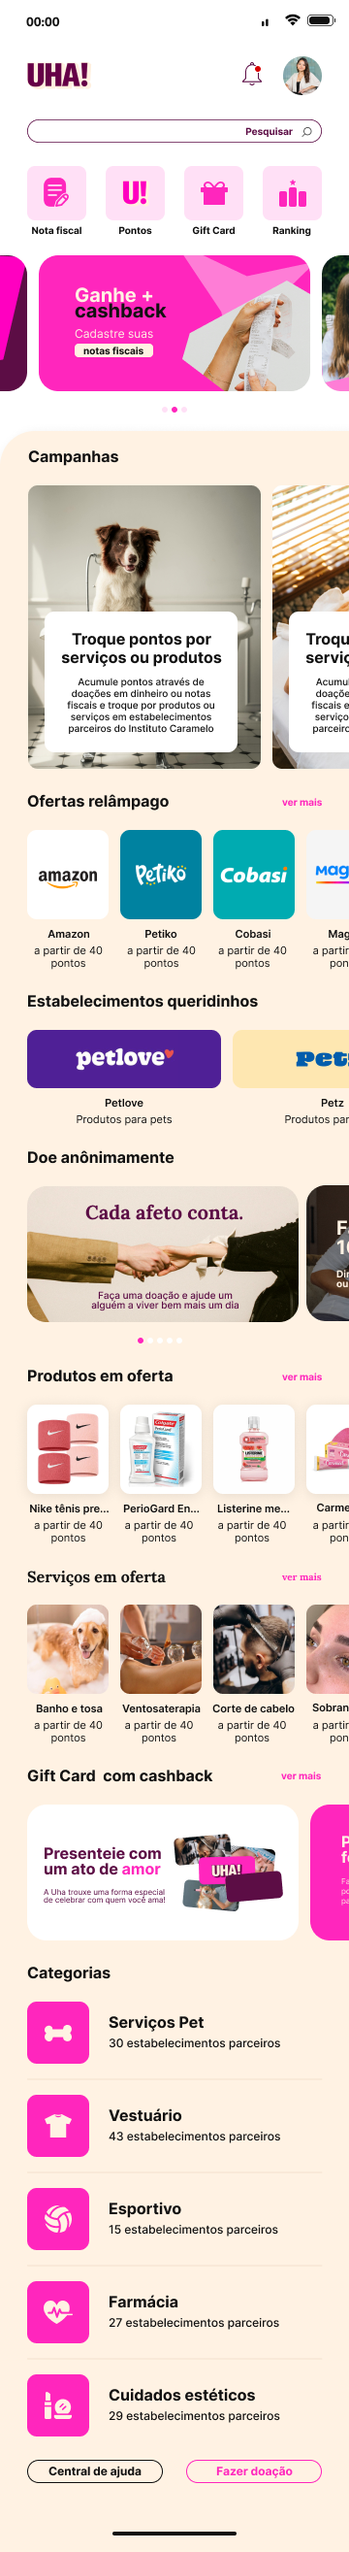
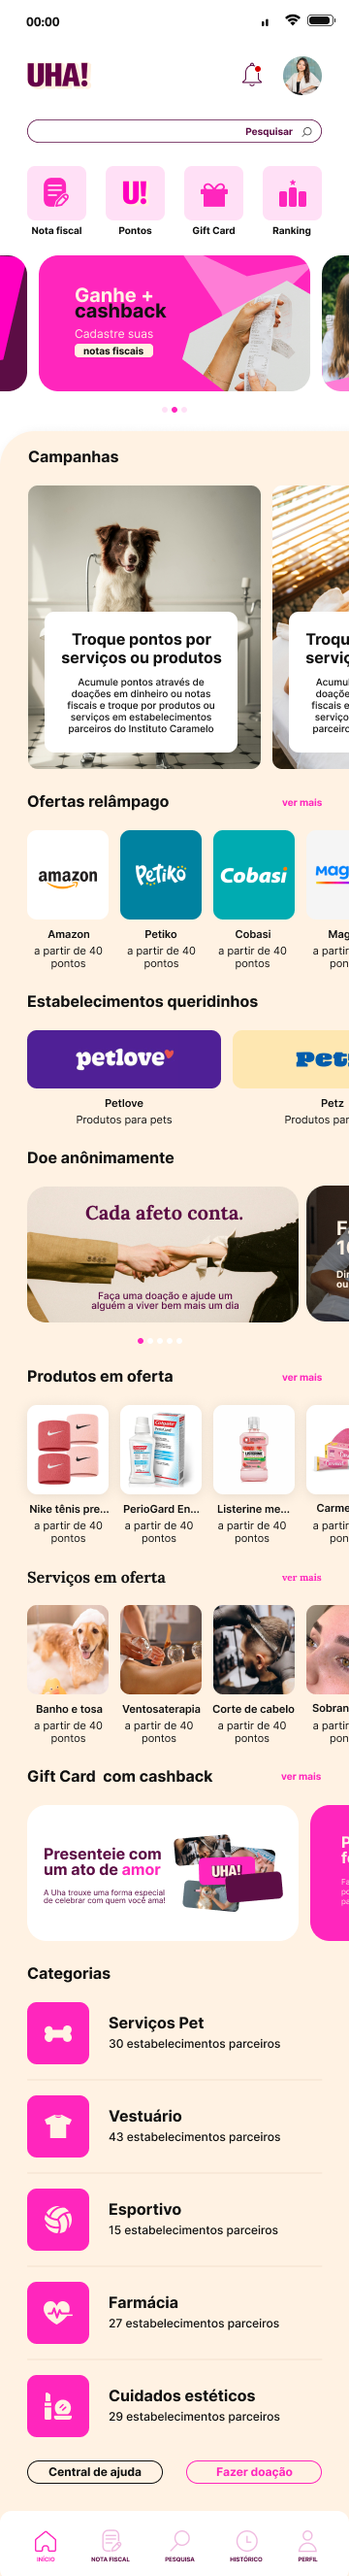
add new assets

diff --git a/src/screens/campaigns/uhacoins.js b/src/screens/campaigns/uhacoins.js
@@ -9,7 +9,7 @@ import Avatar from '@components/avatar';
 import Notify from '@components/notify';
 
 
-export default function HomeScreen({navigation, }){
+export default function UhaCoinsScreen({navigation, }){
     const { color, font, margin, } = useContext(ThemeContext);
 
     const campanhas = [
@@ -50,7 +50,6 @@ export default function HomeScreen({navigation, }){
             color: '#',
         },
     ]
-
     const estabelecimentos = [
         {
             id: 1,
@@ -66,6 +65,7 @@ export default function HomeScreen({navigation, }){
         }
     ]
 
+
     return (
         <Main style={{ backgroundColor: "#fff" }}>
             <Scroll>
@@ -78,6 +78,7 @@ export default function HomeScreen({navigation, }){
                         <Avatar />
                     </Row>
                 </Row>
+
                 <Button style={{ borderRadius: 30,  opacity: .7, borderWidth: 2, marginVertical: 24, borderColor: "#30303030", backgroundColor: "#12121220", paddingVertical: 12, paddingHorizontal: 8, marginHorizontal: margin.h, }}>
                     <Row style={{ justifyContent: 'space-between', alignItems: 'center', paddingHorizontal: 18,  }}>
                         <Title style={{ fontSize: 20, fontFamily: font.medium, }}>Pesquisar</Title>
@@ -86,37 +87,33 @@ export default function HomeScreen({navigation, }){
                 </Button>
                 
                 <Row style={{ justifyContent: 'space-between', alignItems: 'center', marginHorizontal: margin.h, marginBottom: 24, }}>
-                    
                     <Column style={{ justifyContent: 'center', alignItems: 'center',  }}>
-                        <Button onPress={() => {navigation.navigate('Notafiscal')}}  rippleColor={color.secundary} style={{ backgroundColor:  color.primary+20, padding: 18, borderRadius: 12, }}>
-                            <MotiImage source={require('@icons/nota.png')} resizeMode='contain' style={{ width: 34, height: 34, }} />
+                        <Button onPress={() => {navigation.navigate('Redeem')}}  rippleColor={color.secundary} style={{ backgroundColor:  color.primary+20, padding: 18, borderRadius: 12, }}>
+                            <MotiImage source={require('@imgs/nota.png')} resizeMode='contain' style={{ width: 34, height: 34, }} />
+                        </Button>
+                        <Label style={{ marginTop: 4, fontFamily: font.medium, fontSize: 14, color: color.title, textAlign: 'center' }}>Nota fisl</Label>
+                    </Column>
+                    <Column style={{ justifyContent: 'center', alignItems: 'center',  }}>
+                        <Button onPress={() => {navigation.navigate('Notafiscal')}}  rippleColor={color.secundary} style={{ backgroundColor: color.primary+20, padding: 18, borderRadius: 12, }}>
+                            <MotiImage source={require('@imgs/nota.png')} resizeMode='contain' style={{ width: 34, height: 34, }} />
                         </Button>
                         <Label style={{ marginTop: 4, fontFamily: font.medium, fontSize: 14, color: color.title, textAlign: 'center' }}>Nota fiscal</Label>
                     </Column>
-                    
                     <Column style={{ justifyContent: 'center', alignItems: 'center',  }}>
-                        <Button onPress={() => {navigation.navigate('Notafiscal')}}  rippleColor={color.secundary} style={{ backgroundColor: color.primary+20, padding: 18, borderRadius: 12, }}>
-                            <MotiImage source={require('@icons/pontos.png')} resizeMode='contain' style={{ width: 34, height: 34, }} />
+                        <Button onPress={() => {navigation.navigate('BuyService')}} rippleColor={color.secundary} style={{ backgroundColor: color.primary+20, padding: 18, borderRadius: 12, }}>
+                            <MotiImage source={require('@imgs/patinhas.png')} resizeMode='contain' style={{ width: 34, height: 34, }} />
                         </Button>
-                        <Label style={{ marginTop: 4, fontFamily: font.medium, fontSize: 14, color: color.title, textAlign: 'center' }}>Pontos</Label>
+                        <Label style={{ marginTop: 4, fontFamily: font.medium, fontSize: 14, color: color.title, textAlign: 'center' }}>Patinhas</Label>
                     </Column>
-                    
                     <Column style={{ justifyContent: 'center', alignItems: 'center',  }}>
-                        <Button onPress={() => {navigation.navigate('CampaignsGiftCard')}} rippleColor={color.secundary} style={{ backgroundColor: color.primary+20, padding: 18, borderRadius: 12, }}>
-                            <MotiImage source={require('@icons/gift.png')} resizeMode='contain' style={{ width: 34, height: 34, }} />
+                        <Button onPress={() => {navigation.navigate('BuyServiceGiftCard')}}  rippleColor={color.secundary} style={{ backgroundColor: color.primary+20, padding: 18, borderRadius: 12, }}>
+                            <MotiImage source={require('@imgs/gift.png')} resizeMode='contain' style={{ width: 34, height: 34, }} />
                         </Button>
                         <Label style={{ marginTop: 4, fontFamily: font.medium, fontSize: 14, color: color.title, textAlign: 'center' }}>Gift Card</Label>
                     </Column>
-
-                    <Column style={{ justifyContent: 'center', alignItems: 'center',  }}>
-                        <Button onPress={() => {navigation.navigate('BuyServiceGiftCard')}}  rippleColor={color.secundary} style={{ backgroundColor: color.primary+20, padding: 18, borderRadius: 12, }}>
-                            <MotiImage source={require('@icons/rank.png')} resizeMode='contain' style={{ width: 34, height: 34, }} />
-                        </Button>
-                        <Label style={{ marginTop: 4, fontFamily: font.medium, fontSize: 14, color: color.title, textAlign: 'center' }}>Ranking</Label>
-                    </Column>
                 </Row>
 
-                <Carrousel color={color} type="home"/>
+                <Carrousel color={color}/>
 
                 <Column style={{ paddingHorizontal: margin.h, backgroundColor: color.background, paddingVertical: 20, borderTopLeftRadius: 32,  }}>
                     <Title style={{ marginTop: 8, }}>Campanhas</Title>
@@ -190,13 +187,12 @@ export default function HomeScreen({navigation, }){
                                 </Column>
                             </Button>
                         )}
-                        keyExtractor={item => item.id}
-                    />
+                        keyExtractor={item => item.id} />
                             
 
                 <Column style={{ backgroundColor: color.background, paddingTop: 20, }}>
                     <Title style={{ paddingHorizontal: margin.h, paddingVertical: 12, }}>Doe anônimamente</Title>
-                    <Carrousel type="doe"/>
+                    <Carrousel />
                 </Column>
                 <Column style={{ backgroundColor: color.background, marginTop: -30,  }}>
                     <Title style={{ paddingHorizontal: margin.h, paddingVertical: 12, }}>Produtos em oferta</Title>
@@ -241,7 +237,7 @@ export default function HomeScreen({navigation, }){
                 
                 <Column style={{ backgroundColor: color.background, paddingTop: 20, }}>
                     <Title style={{ paddingHorizontal: margin.h, paddingVertical: 12, }}>Gift Card com cashback</Title>
-                    <Carrousel type="gift"/>
+                    <Carrousel />
                 </Column>
                 <Column style={{ paddingHorizontal: margin.h, backgroundColor: color.background, marginTop: -20,  }}>
                     <Title>Categorias</Title>
@@ -266,7 +262,6 @@ export default function HomeScreen({navigation, }){
                         )}
                     />
                 </Column>
-
                 
                 <Row style={{ justifyContent: 'space-between', alignItems: 'center', paddingHorizontal: margin.h, backgroundColor: color.background, paddingBottom: 100,}}>
                         <Button style={{ borderWidth: 2, borderColor: '#111', paddingHorizontal: 20, paddingVertical: 12, borderRadius: 100, }}>
@@ -317,7 +312,7 @@ const categories = [
 ]
 
 
-const Carrousel = ({ type }) => {
+const Carrousel = (  ) => {
     const flat = useRef();
     const scrollX = useRef(new Animated.Value(0)).current;
 
@@ -329,45 +324,26 @@ const Carrousel = ({ type }) => {
             </Button>
         )
     }
-
-
-    const data = type == 'gift' ? gift : type == 'doe' ? doe : type == 'home' ? home : home
-
-    const home = [
-        {id: 1, title: '1', img: require('@imgs/carrousel1.png')},
-        {id: 2, title: '2', img: require('@imgs/carrousel2.png') },
-        {id: 3, title: '3', img: require('@imgs/carrousel3.png') },
-    ]
-    const gift = [
-        {id: 1, title: '1', img: require('@imgs/gift1.png')},
-        {id: 2, title: '2', img: require('@imgs/gift2.png') },
-        {id: 3, title: '2', img: require('@imgs/gift2.png') },
-    ]
-    const doe = [
-        {id: 1, title: '1', img: require('@imgs/doe1.png')},
-        {id: 2, title: '2', img: require('@imgs/doe2.png') },
-        {id: 3, title: '2', img: require('@imgs/doe2.png') },
+    const data = [
+        {id: 1, title: '1', img: require('@imgs/scroll1.png')},
+        {id: 2, title: '2', img: require('@imgs/scroll2.png') },
+        {id: 3, title: '3', img: require('@imgs/scroll3.png') },
     ]
 
     const [scrollPosition, setScrollPosition] = useState(0);
-    
-   /*  useEffect(() => {
+    useEffect(() => {
         const scrollInterval = setInterval(() => {
           setScrollPosition((prevPosition) => {
-            const newPosition = (prevPosition + 320) % (320 * data?.length);
+            const newPosition = (prevPosition + 320) % (320 * data.length);
             flat.current?.scrollToOffset({ offset: newPosition, animated: true });
             return newPosition;
           });
         }, 4000);
     
         return () => clearInterval(scrollInterval);
-      }, [data?.length]);
-*/
-
-
+      }, [data.length]);
 
     return(
-
         <Column>
         
     <FlatList 
@@ -380,7 +356,7 @@ const Carrousel = ({ type }) => {
         ref={flat}
         decelerationRate={'fast'}
         scrollEventThrottle={16}
-        data={ type == 'gift' ? gift : type == 'doe' ? doe : type == 'home' ? home : home}
+        data={data}
         renderItem={render}
         keyExtractor={item => item.id}
         horizontal
@@ -388,7 +364,7 @@ const Carrousel = ({ type }) => {
         ListFooterComponent={<View style={{ width: 34 }} />}
         style={{ paddingHorizontal: 24, marginBottom: 56,}}
         snapToAlignment='center'
-        snapToOffsets={[0, 300, 640]}
+        snapToOffsets={[320, 640]}
         
         />
       

diff --git a/src/screens/notafiscal/index.js b/src/screens/notafiscal/index.js
@@ -22,10 +22,10 @@ export default function NotafiscalScreen({navigation, }){
                     <Title style={{ fontSize: 20, marginTop: -20, }}>Como cadastrar</Title>
                     <Label style={{ marginVertical: 8, }}>Selecione a página de cadastro de nota fiscal, abra sua câmera e aponte para o QR Code em sua nota fiscal, simples, rápido e prático.</Label>
 
-                    <Button style={{ borderRadius: 8, marginTop: 24, backgroundColor: color.primary, paddingVertical: 16, paddingHorizontal: 20, marginVertical: 6,  }}>
+                    <Button onPress={() => {navigation.navigate('NotafiscalSend')}} style={{ borderRadius: 8, marginTop: 24, backgroundColor: color.primary, paddingVertical: 16, paddingHorizontal: 20, marginVertical: 6,  }}>
                         <Label style={{ fontFamily: font.bold, color: "#fff", textAlign: 'center', }}>Cadastrar nota fiscal</Label>
                     </Button>
-                    <Button style={{ borderRadius: 8, borderColor: color.secundary, borderWidth: 2, marginBottom: 32, paddingVertical: 16, paddingHorizontal: 20, marginVertical: 6,  }}>
+                    <Button onPress={() => {navigation.navigate('CampaignsProgress')}}  style={{ borderRadius: 8, borderColor: color.secundary, borderWidth: 2, marginBottom: 32, paddingVertical: 16, paddingHorizontal: 20, marginVertical: 6,  }}>
                         <Label style={{ fontFamily: font.bold, color: color.secundary, textAlign: 'center', }}>Minhas notas</Label>
                     </Button>
 

diff --git a/src/screens/campaigns/gift_card.js b/src/screens/campaigns/gift_card.js
@@ -9,7 +9,6 @@ export default function CampaignsGiftCardScreen({ navigation, }) {
     return (
         <Main>
             <Scroll>
-               
                <Header title='Gift Card'/>
                 <Column style={{ paddingHorizontal: 28, }}>
                     <MotiImage style={{ flexGrow: 1, borderRadius: 24, backgroundColor: '#303030', height: 280, marginVertical: 24, }} from={{opacity: 0, translateY: -20,}} animate={{opacity: 1, translateY: 0,}}/>
@@ -36,11 +35,9 @@ export default function CampaignsGiftCardScreen({ navigation, }) {
                     <Title style={{ marginTop: 32, marginBottom: 8, }}>Qual o prazo do meu Gift Card?</Title>
                     <Label>Você pode utilizar seu Gift Card até 6 meses após a data de compra registrada.</Label>
 
-
                     <ButtonOut style={{ borderColor: '#000', paddingVertical: 12, marginTop: 24, marginBottom: 40, }}>
                         <LabelLI style={{  }}>Conhecer estabelecimentos parceiros</LabelLI>
                     </ButtonOut>
-                   
                 </Column>
             </Scroll>
         </Main>

diff --git a/src/screens/notafiscal/send.js b/src/screens/notafiscal/send.js
@@ -17,6 +17,8 @@ export default function NotafiscalSendScreen({ navigation, }) {
 
     return (
         <Main style={{  }}>
+            <Scroll>
+
             <Header title="Enviar nota fiscal"/>
 
             <Label style={{  alignSelf: 'center', textAlign: 'center', marginTop: 100, marginBottom: 30,}}>Aponte sua camerâ para o {'\n'}QR Code da nota fiscal</Label>
@@ -40,6 +42,7 @@ export default function NotafiscalSendScreen({ navigation, }) {
 
                 <Label>Sequência de 44 números</Label>
             </Column>
+            </Scroll>
 
             <BottomSheet ref={bottomEnviar} snapPoints={[1, 340]}>
                 <BottomSheetView style={{ marginHorizontal: margin.h, }}>

diff --git a/src/components/avatar.js b/src/components/avatar.js
@@ -7,7 +7,7 @@ const Avatar = ({ url }) => {
     const img = url ? url : 'https://i.pinimg.com/736x/c5/e4/6f/c5e46f1afb9214486b57526a34705c7f.jpg';
     return(     
         <Button onPress={() => {navigation.navigate('Account')}} >
-            <MotiImage from={{opacity: 0, scale: .6,}} animate={{opacity: 1, scale: 1,}} transition={{delay: 400,}} source={{uri: img}} style={{width: 40, height: 40, borderRadius: 100}} />
+            <MotiImage from={{opacity: 0, scale: .6,}} animate={{opacity: 1, scale: 1,}} transition={{delay: 400,}} source={require('@icons/avatar.png')} style={{width: 40, height: 40, borderRadius: 100}} />
         </Button>
         )}
 
